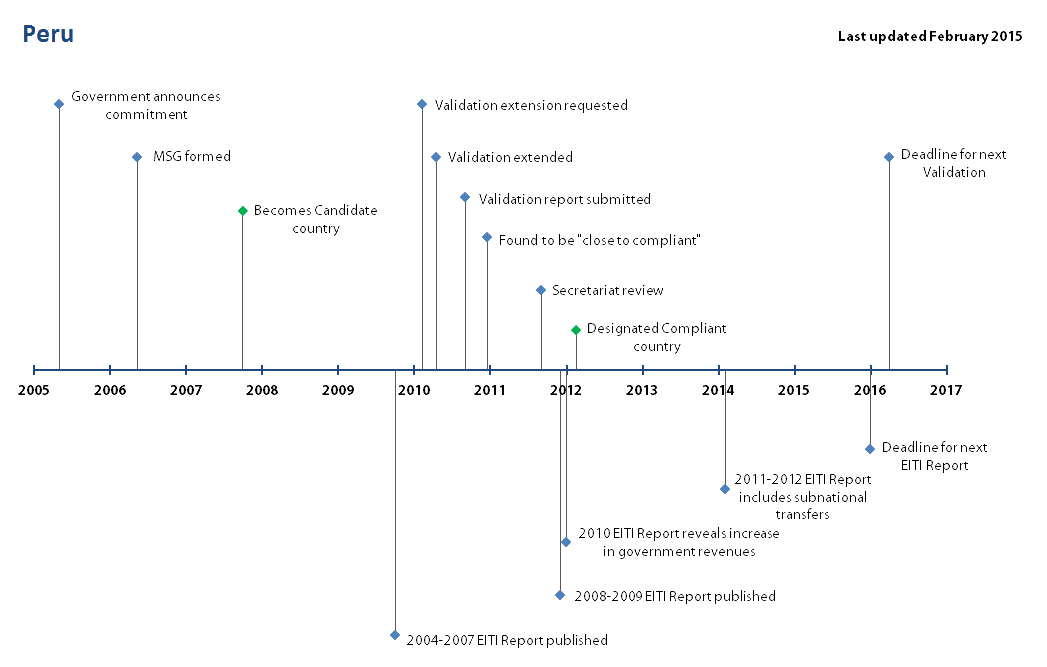
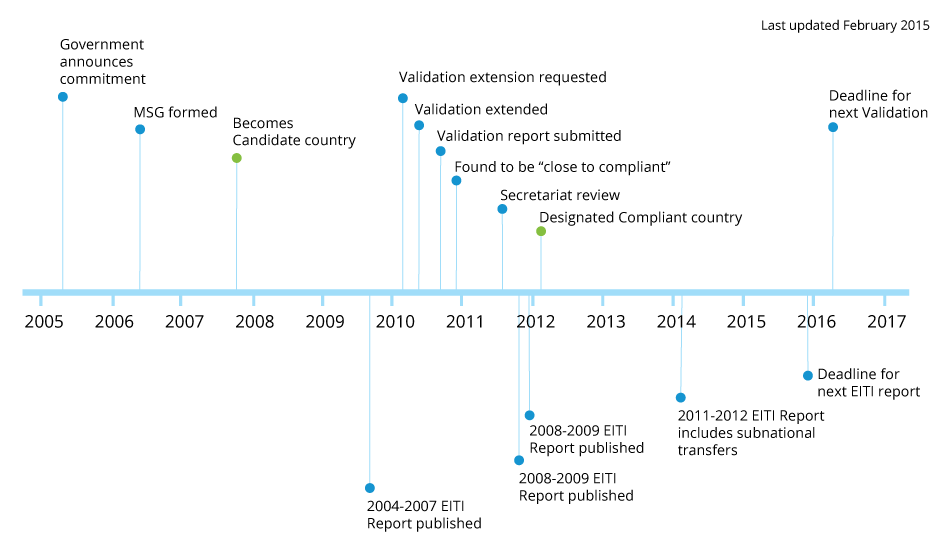
EITI-154 - new timeline image for Peru - adjustment of additional information section styling - addition of text size variable for more information section - chart css changes in the legend section

diff --git a/prototype/countries.html b/prototype/countries.html
@@ -30,7 +30,7 @@
         <li><a href="">About EITI</a></li>
         <li><a href="">EITI Analysis</a></li>
         <li><a href="">Publications</a></li>
-        <li><a href="">Global Conference</a></li>
+        <li><a href="http://www.lima2016.eiti.org" target="_blank">Global Conference</a></li>
     </ul>
   </nav>
 
@@ -100,14 +100,13 @@
     </p>
     <div class="learn-more-section">
       <img class="learn-more-icon" src="images/icon-dump/learn-more.svg" alt="learn more">
-      <a target="_blank">
-        Learn more
-      </a>
+        <h4 class="more-information">Further Information</h4>
+        <ul class="innovation-list">
+          <li><a href="https://eiti.org/news/peru-ten-years-transparency-oil-gas-and-mining" target="_blank">10 years of EITI reporting in Peru</a></li>
+          <li><a href="http://progrep.eiti.org/2015/country-focus/peru-story" target="_blank">Bringing transparency closer to people</a></li>
+        </ul>
     </div>
-    <ul class="innovation-list">
-      <li><a href="https://eiti.org/news/peru-ten-years-transparency-oil-gas-and-mining" target="_blank">10 years of EITI reporting in Peru</a></li>
-      <li><a href="http://progrep.eiti.org/2015/country-focus/peru-story" target="_blank">Bringing transparency closer to people</a></li>
-    </ul>
+
 
   </div>
   <!-- end: country into text widget -->
@@ -136,15 +135,10 @@
       <img class="title-icon" src="images/icon-dump/eiti_naturalresources.svg" alt="natural resources icon">
       <h3>Natural Resources</h3>
     </div>
-    <p>
+    <p class="wysiwyg-highlight">
       Peru has rich deposits of copper, gold, silver, lead, zinc, natural gas and petroleum. Abundant mineral resources are found mainly in the mountainous areas. It is considered one of the top ten richest mineral countries in the world.
     </p>
-    <div class="learn-more-section">
-      <img class="learn-more-icon" src="images/icon-dump/learn-more.svg" alt="learn more">
-      <a href="#" target="_blank">
-        Learn more about resource details
-      </a>
-    </div>
+
 
     <table class="resources-table">
     	<thead>
@@ -220,16 +214,15 @@
     <br/>
     <div class="learn-more-section">
       <img class="learn-more-icon" src="images/icon-dump/learn-more.svg" alt="learn more">
-      <a target="_blank">
-        Further Information
-      </a>
+      <h4 class="more-information">Further Information</h4>
+      <ul class="innovation-list">
+        <li><a href="http://data.worldbank.org/country/peru?display=graph" target="_blank">Peru’s country data/World Bank</a></li>
+        <li><a href="http://www.minem.gob.pe/_publicacion.php?idSector=1&idPublicacion=511" target="_blank">Ministry of Energy Statistics </a></li>
+        <li><a href="http://www.snmpe.org.pe/informes-y-publicaciones-snmpe/reporte-estadistico-mineroenergetico/ano-2014-fecha-de-publicacion-abril-2015.html" target="_blank">Industry association (SNMPE) publications: Statistical Report</a></li>
+        <li><a href="http://www.centro-de-informacion.snmpe.pe/Catalogo-en-Linea.html" target="_blank">Industry association (SNMPE) publications: Online Catalog</a></li>
+      </ul>
     </div>
-    <ul class="innovation-list">
-      <li><a href="http://data.worldbank.org/country/peru?display=graph" target="_blank">Peru’s country data/World Bank</a></li>
-      <li><a href="http://www.minem.gob.pe/_publicacion.php?idSector=1&idPublicacion=511" target="_blank">Ministry of Energy Statistics </a></li>
-      <li><a href="http://www.snmpe.org.pe/informes-y-publicaciones-snmpe/reporte-estadistico-mineroenergetico/ano-2014-fecha-de-publicacion-abril-2015.html" target="_blank">Industry association (SNMPE) publications: Statistical Report</a></li>
-      <li><a href="http://www.centro-de-informacion.snmpe.pe/Catalogo-en-Linea.html" target="_blank">Industry association (SNMPE) publications: Online Catalog</a></li>
-    </ul>
+
 
 
   </div>
@@ -319,14 +312,13 @@ The three main taxes and fees imposed on companies operating in the extractive s
       <br /><br />
       <div class="learn-more-section">
         <img class="learn-more-icon" src="images/icon-dump/learn-more.svg" alt="learn more">
-        <a target="_blank">
-          Further Information
-        </a>
+        <h4 class="more-information">Further Information</h4>
+        <ul class="innovation-list">
+          <li><a href="http://www.perupetro.com.pe/wps/wcm/connect/perupetro/site-en/#" target="_blank">Peru Petro statistics </a></li>
+          <li><a href="http://www.ingemmet.gob.pe/-/memoria-anual-2014" target="_blank">Ingemmet annual report </a></li>
+        </ul>
       </div>
-      <ul class="innovation-list">
-        <li><a href="http://www.perupetro.com.pe/wps/wcm/connect/perupetro/site-en/#" target="_blank">Peru Petro statistics </a></li>
-        <li><a href="http://www.ingemmet.gob.pe/-/memoria-anual-2014" target="_blank">Ingemmet annual report </a></li>
-      </ul>
+
 
 
       <!-- end: LICENSE section -->
@@ -334,7 +326,7 @@ The three main taxes and fees imposed on companies operating in the extractive s
 </div>
 
 <!-- start: PRODUCTION section -->
-<div class="content-section margin-bottom">
+<div class="content-section">
   <div class="inner-container">
 
     <!-- start: section title -->
@@ -369,7 +361,7 @@ The three main taxes and fees imposed on companies operating in the extractive s
 
 
 <!-- start: GOV REVENUE section -->
-<div class="content-section margin-bottom">
+<div class="content-section">
   <div class="inner-container">
 
     <!-- start: section title -->
@@ -468,7 +460,7 @@ Regional and municipal governments receive, via transfers from the central gover
     <!-- end: section title -->
 
     <p class="wysiwyg-paragraph">
-   In 2015, the regions of Piura and Moquegua piloted EITI implementation. Both regions formed multi-stakeholder groups and commissioned, together with Peru EITI, pilot EITI Reports. These Reports feature reconciled transfers from the central government to regions and municipalities and, more crucial to building trust, disclosed information on how these subnational governments have used extractive revenues. The two reports also contained historical data on revenue and expenditures dating back to 2007. The EITI Reports highlighted that, only about 15% of revenues from the mining and hydrocarbon sector has been used for developmental spending, such as infrastructure or economic diversification. The rest has been spent on current expenditures such as salaries and servicing debts. Local citizens are using this information to engage with their regional authorities on alternative ways to spend these resources. 
+   In 2015, the regions of Piura and Moquegua piloted EITI implementation. Both regions formed multi-stakeholder groups and commissioned, together with Peru EITI, pilot EITI Reports. These Reports feature reconciled transfers from the central government to regions and municipalities and, more crucial to building trust, disclosed information on how these subnational governments have used extractive revenues. The two reports also contained historical data on revenue and expenditures dating back to 2007. The EITI Reports highlighted that, only about 15% of revenues from the mining and hydrocarbon sector has been used for developmental spending, such as infrastructure or economic diversification. The rest has been spent on current expenditures such as salaries and servicing debts. Local citizens are using this information to engage with their regional authorities on alternative ways to spend these resources.
     </p>
 
     <div class="country-section-media">
@@ -482,7 +474,7 @@ Regional and municipal governments receive, via transfers from the central gover
 
 
 <!-- start: GOVERNANCE section -->
-<div class="content-section margin-bottom">
+<div class="content-section">
   <div class="inner-container">
 
     <!-- start: section title -->
@@ -497,21 +489,22 @@ Regional and municipal governments receive, via transfers from the central gover
     </p>
     <p class="wysiwyg-paragraph">
       The <strong>EITI National Committee</strong> (called Comision Multisectorial de la EITI, in Spanish) is chaired by <strong>EITI Champion</strong> Ing.Guillermo Shinno, Vice-Minister of Mines. Ministry of Energy and Mines and composed of:</p>
-      <p class="wysiwyg-paragraph"><span class="wysiwyg-highlight">Fernando Castillo</span> - Ministry of Energy, Technical Secretary of the Commission;</p>
-      <p class="wysiwyg-paragraph"><span class="wysiwyg-highlight">Ministry of Finance</span> - Sr. Hugo Oropeza - DG Social Management;</p>
-      <p class="wysiwyg-paragraph"><span class="wysiwyg-highlight">Universities:  Pacific University</span> - Sr Carlos Casas;</p>
-      <p class="wysiwyg-paragraph"><span class="wysiwyg-highlight">Civil Society: Grupo Propuesta Ciudadana</span> - Sr Epifanio Baca; Derecho, Ambiente y Recuros</p>
-      <p class="wysiwyg-paragraph"><span class="wysiwyg-highlight">Naturales</span>- Sra Pilar Camero</p>
-      <p class="wysiwyg-paragraph"><span class="wysiwyg-highlight">Industry - Sociedad de Mineria, Petroleo y Energia - Sra. Carmen Mendoza; Sra Caterina Podestá</p>
-      <p class="wysiwyg-paragraph"><span class="wysiwyg-highlight">Industry- Southern Peru Copper Co.</span> - Sr. Carlos Aranda; Anglo American- Sr Eduardo Rubio; Repsol - Sr Jorge Luis Mercado
-    </p>
+      <ul>
+        <li><span class="wysiwyg-highlight">Fernando Castillo</span> - Ministry of Energy, Technical Secretary of the Commission;</li>
+        <li><span class="wysiwyg-highlight">Ministry of Finance</span> - Sr. Hugo Oropeza - DG Social Management;</li>
+        <li><span class="wysiwyg-highlight">Universities:  Pacific University</span> - Sr Carlos Casas;</li>
+        <li><span class="wysiwyg-highlight">Civil Society: Grupo Propuesta Ciudadana</span> - Sr Epifanio Baca; Derecho, Ambiente y Recuros</li>
+        <li><span class="wysiwyg-highlight">Naturales</span>- Sra Pilar Camero</li>
+        <li><span class="wysiwyg-highlight">Industry - Sociedad de Mineria, Petroleo y Energia - Sra. Carmen Mendoza; Sra Caterina Podestá</li>
+        <li><span class="wysiwyg-highlight">Industry- Southern Peru Copper Co.</span> - Sr. Carlos Aranda; Anglo American- Sr Eduardo Rubio; Repsol - Sr Jorge Luis Mercado</li>
+      </ul>
   </div>
 </div>
 <!-- end: GOVERNANCE section -->
 
 
 <!-- start: KEY DOCUMENTS section -->
-<div class="content-section margin-bottom">
+<div class="content-section">
   <div class="inner-container">
 
     <!-- start: section title -->
@@ -730,7 +723,7 @@ EITI Reports</a></li>
 
       chartWidget.create({
         type: "GroupedBar",
-        name: "Gov’t revenue from extractives compared",
+        name: "Government revenue from extractives compared",
         width: 800,
         height: 400,
         margin: {top: 10, bottom: 50, left: 100, right: 10},

diff --git a/prototype/css/charts/main.css b/prototype/css/charts/main.css
@@ -123,31 +123,31 @@ textarea {
 .legend {
     float: right;
     margin-top: 10px;
-    margin-right: 50px;
-    width: 550px;
+    margin-right: 0;
+    width: 520px;
 }
 .grouped-item-active {
     float: left;
     border: 2px solid #85be33;
-    border-radius: 3px;
-    font-size: 1.5em;
+    border-radius: 2px;
+    font-size: 1.3em;
     padding: 5px;
     line-height: 70%;
     margin: 1px;
     cursor: pointer;
-    width: 17%;
+    width: 22%;
 }
 
 .grouped-item {
     float: left;
     border: 2px solid #d3d3d3;
-    border-radius: 3px;
-    font-size: 1.5em;
+    border-radius: 2px;
+    font-size: 1.3em;
     padding: 5px;
     line-height: 70%;
     margin: 1px;
     cursor: pointer;
-    width: 17%;
+    width: 22%;
 }
 
 .grouped-item:hover {

diff --git a/prototype/less/page_entire.less b/prototype/less/page_entire.less
@@ -220,6 +220,10 @@ h1{
   margin-top: 3px;
   width: 16px;
 }
+.more-information{
+  font-size: @more-information-text;
+  margin-bottom: 0;
+}
 
 // natural resources table
 

diff --git a/prototype/less/variables_mixins.less b/prototype/less/variables_mixins.less
@@ -28,6 +28,7 @@
 @default-text: 0.85em;
 @highlight-text-size: 1em;
 @title-text: 1.6em;
+@more-information-text: 1.2em;
 @stat-value: 2.9em;
 @text-heavy: 700;
 
